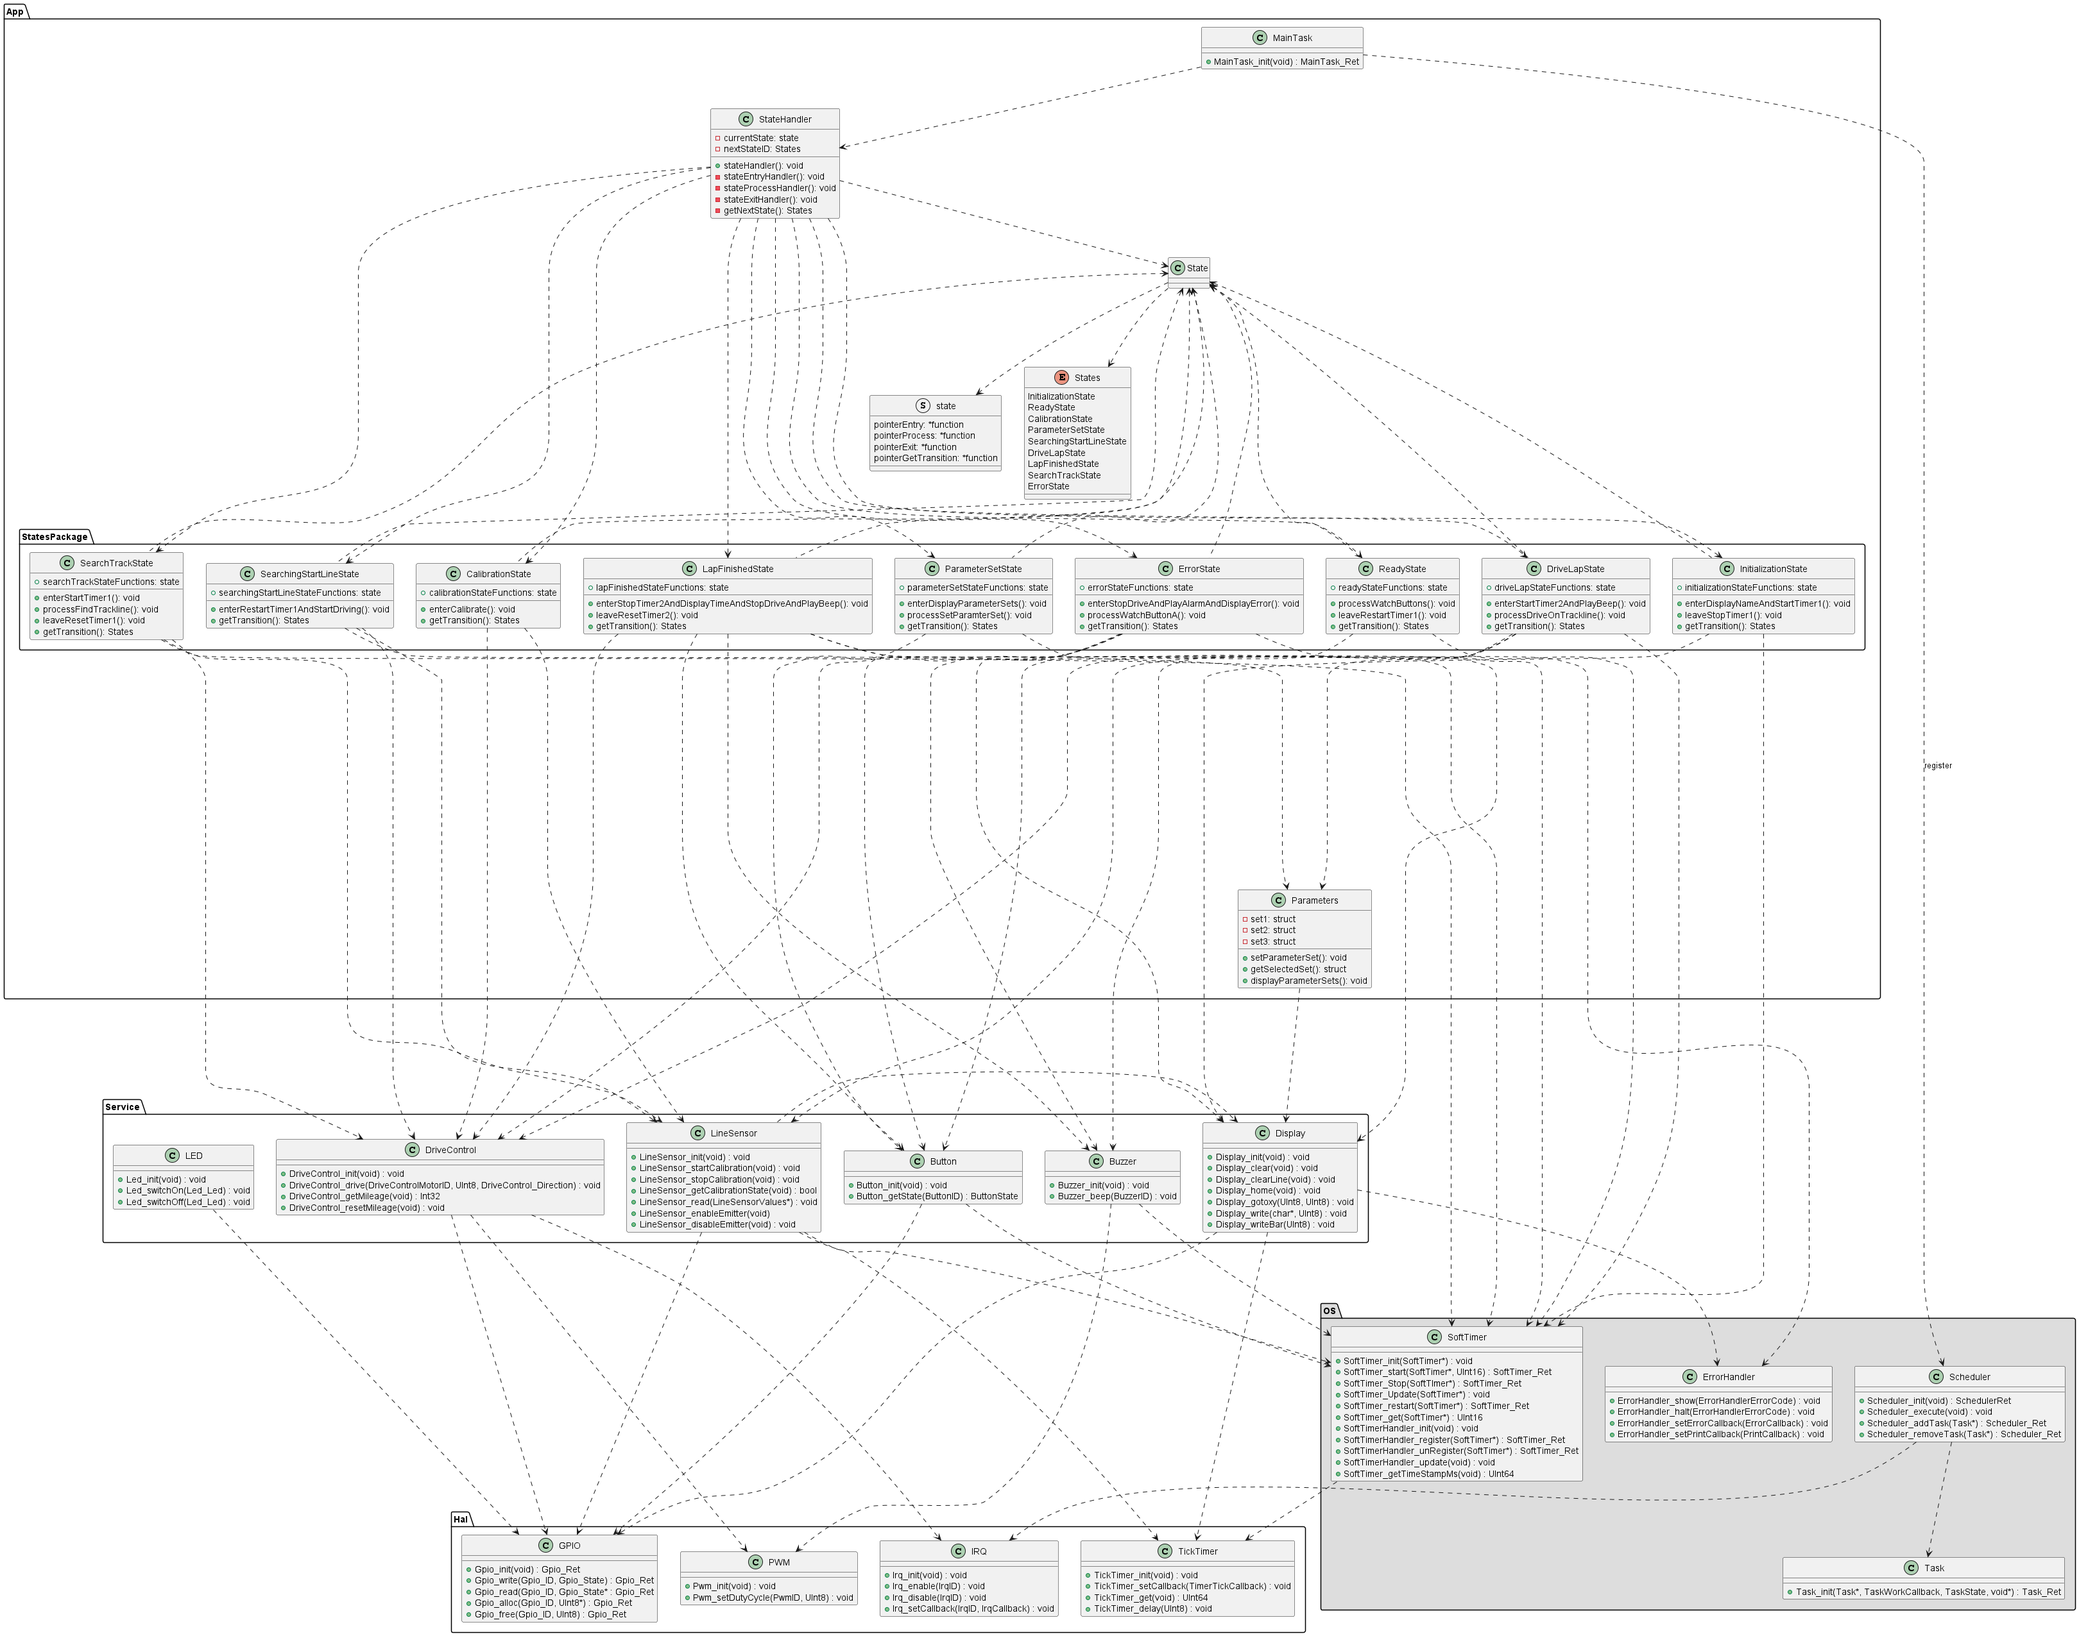
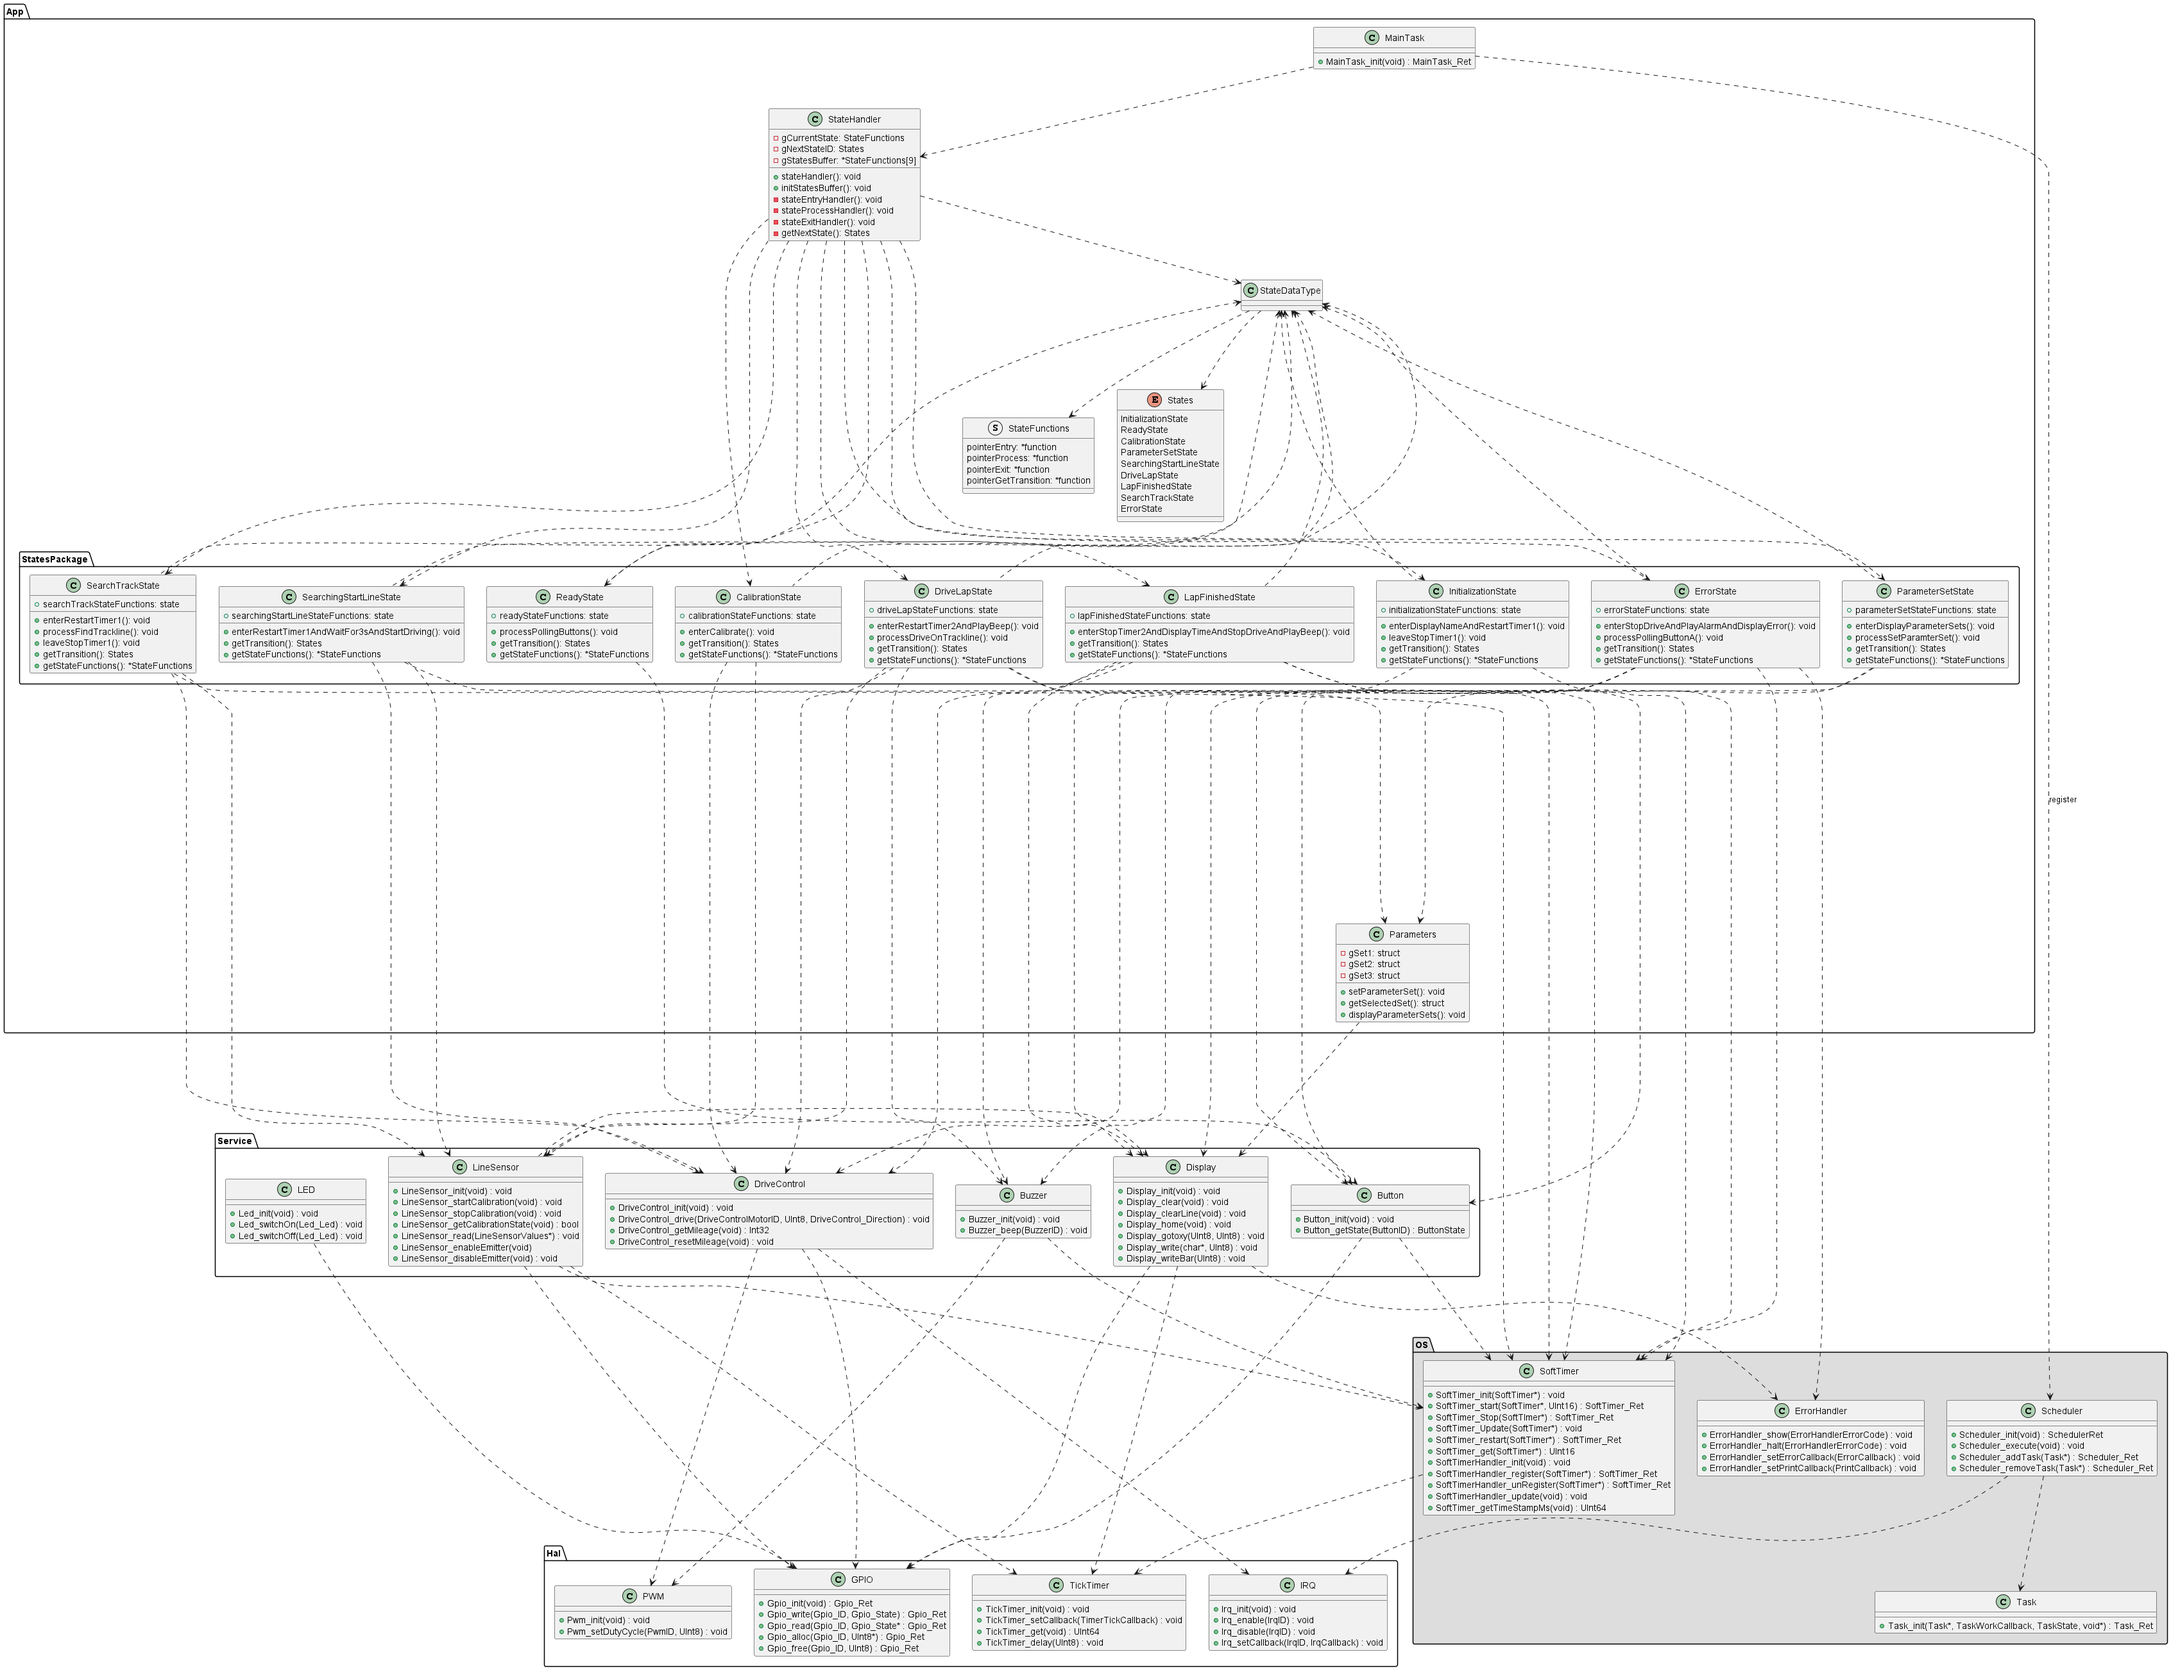
Updates to class and state diagram
added add. state functions and renamed classes

diff --git a/Task 2/Software/App/Parameters.c b/Task 2/Software/App/Parameters.c
@@ -21,6 +21,9 @@
 /* PROTOTYPES *************************************************************************************/
 
 /* VARIABLES **************************************************************************************/
+static ParameterSet gSet1;
+static ParameterSet gSet2;
+static ParameterSet gSet3;
 
 /* EXTERNAL FUNCTIONS *****************************************************************************/
 /** @fn void Parameters_setParameterSet(void)
